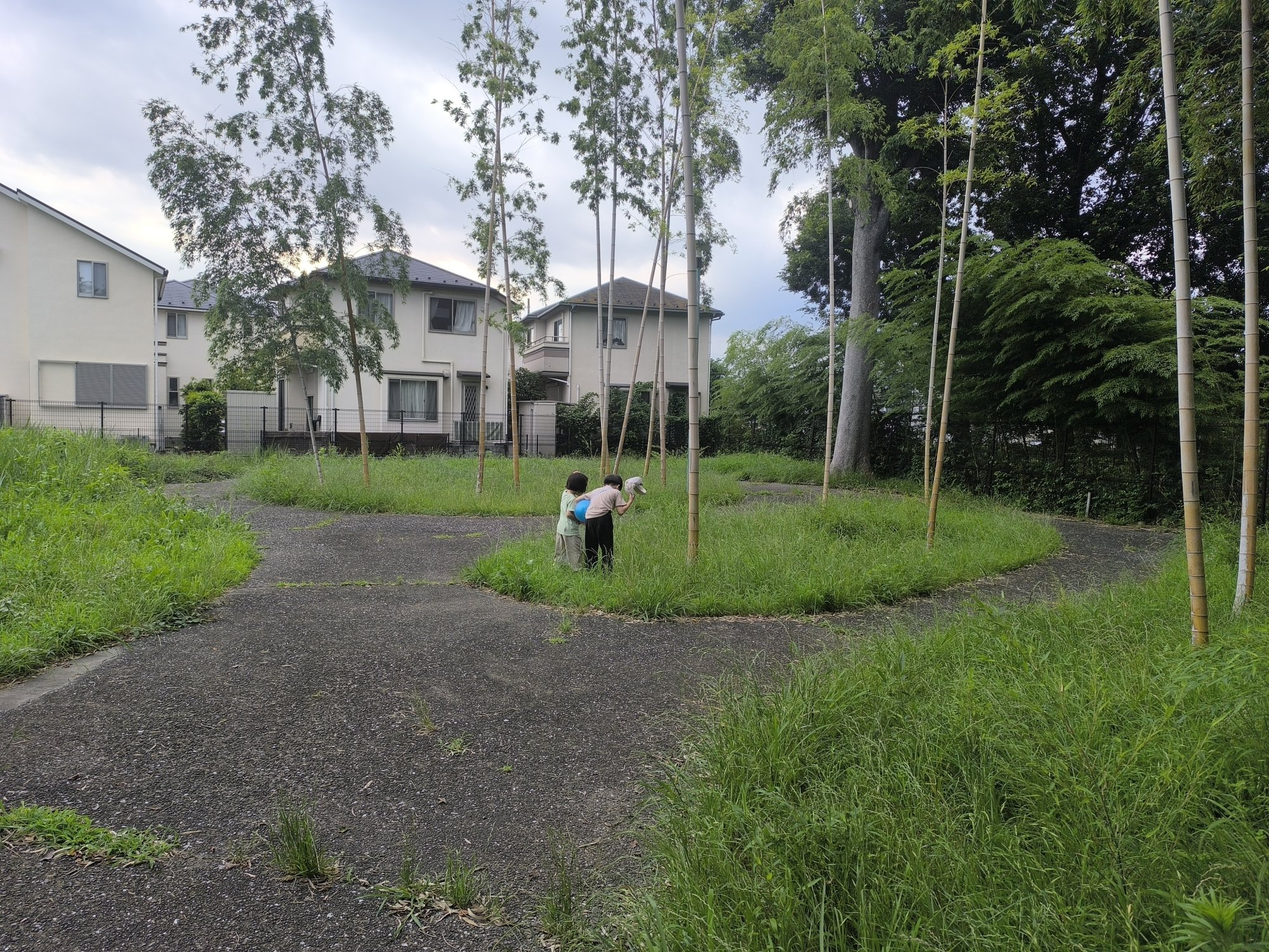
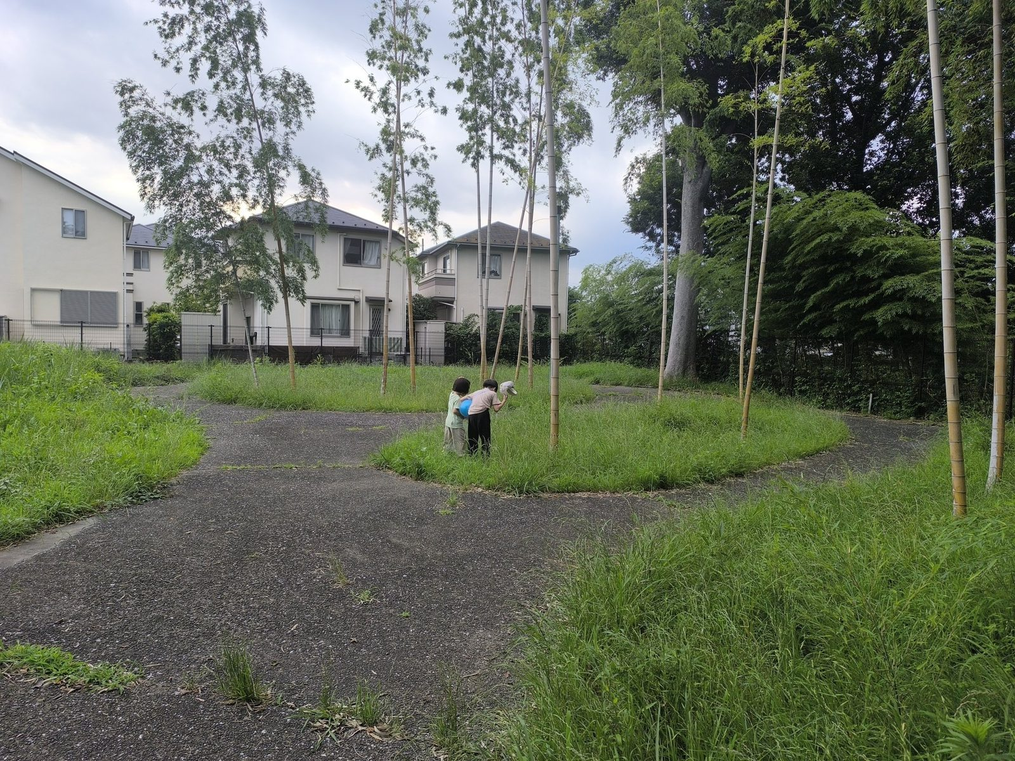
Fix accessibility contrast issues, add Maps iframe title, compress oversized gallery photo

diff --git a/index.html b/index.html
@@ -184,17 +184,17 @@
 
   .hero-cta {
     display: inLine-flex; align-items: center; gap: 10px;
-    background: var(--coral);
+    background: #CC4632;
     color: var(--white);
     font-weight: 800; font-size: 1rem;
     padding: 16px 36px; border-radius: 40px;
     text-decoration: none; margin-top: 10px;
-    box-shadow: 0 6px 0 #c9503f;
+    box-shadow: 0 6px 0 #9E3524;
     transition: all 0.15s;
     animation: popIn 0.7s 0.35s ease both;
   }
-  .hero-cta:hover { transform: translateY(-3px); box-shadow: 0 9px 0 #c9503f; }
-  .hero-cta:active { transform: translateY(2px); box-shadow: 0 4px 0 #c9503f; }
+  .hero-cta:hover { transform: translateY(-3px); box-shadow: 0 9px 0 #9E3524; }
+  .hero-cta:active { transform: translateY(2px); box-shadow: 0 4px 0 #9E3524; }
 
   .hero-cta-2 {
     display: inLine-flex; align-items: center; gap: 10px;
@@ -1094,11 +1094,12 @@ document.querySelectorAll(".nav-links a").forEach(link => {
         <div class="address-label">住所</div>
         <p class="address-text">東京都府中市住吉町1-24-19<br>1F</p>
         <div class="address-label" style="margin-top:20px;">電話番号</div>
-        <p class="address-text"><a href="tel:0423067392" onclick="gtag('event','contact_phone')" style="color:var(--coral);text-decoration:none;">042-306-7392</a></p>
+        <p class="address-text"><a href="tel:0423067392" onclick="gtag('event','contact_phone')" style="color:#CC4632;text-decoration:none;">042-306-7392</a></p>
       </div>
       <div class="access-map">
         <iframe
           src="https://www.google.com/maps/embed?pb=!1m18!1m12!1m3!1d3241.611788611448!2d139.45794567578685!3d35.66193517259345!2m3!1f0!2f0!3f0!3m2!1i1024!2i768!4f13.1!3m3!1m2!1s0x6018e5b1f31eda3f%3A0xa9271ef64698d96c!2sLuana%20English%20School!5e0!3m2!1sen!2sjp!4v1781399938153!5m2!1sen!2sjp"
+          title="Luana English Schoolの地図（Googleマップ）"
           allowfullscreen loading="lazy" referrerpolicy="no-referrer-when-downgrade">
         </iframe>
       </div>
@@ -1115,7 +1116,7 @@ document.querySelectorAll(".nav-links a").forEach(link => {
   <p style="margin-top:12px;">
     <a href="mailto:luanaenglishschool@gmail.com">luanaenglishschool@gmail.com</a>
   </p>
-  <p style="margin-top:16px; opacity:0.4; font-size:0.8rem;">© 2026 Luana English School. All rights reserved.</p>
+  <p style="margin-top:16px; opacity:0.8; font-size:0.8rem;">© 2026 Luana English School. All rights reserved.</p>
 </footer>
 
 <script type="application/ld+json">
